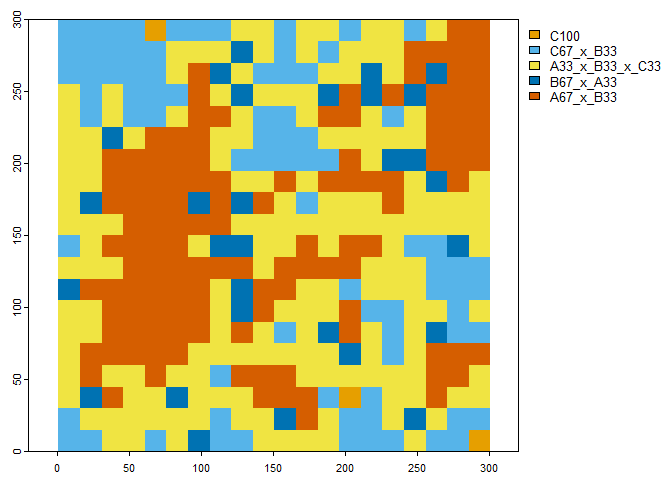
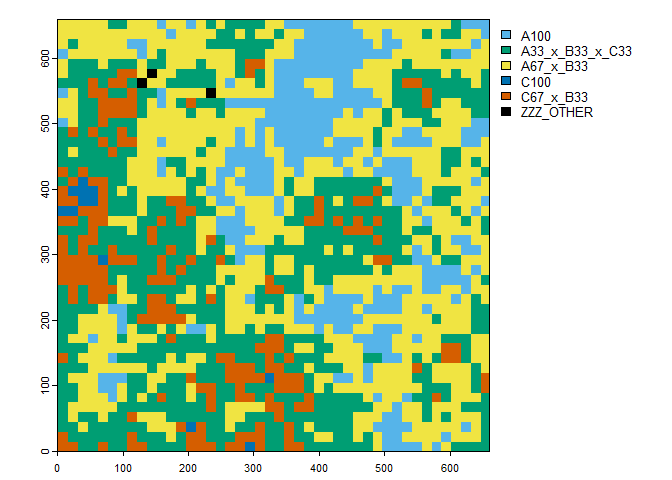
A new parameter for the MDGP scaling algorithm was added. The parameter determine at cell-level at which information retention the cell is classified as "OTHER". The information retention threshold parameters is set as percent. Information retention for all "OTHER" classified cells are set to 0.

diff --git a/README.md b/README.md
@@ -34,32 +34,32 @@ devtools::install_github("gannd/landscapeScaling")
 ``` r
 library(landscapeScaling)
 library(terra)
-#> terra 1.6.17
+#> terra 1.8.50
 ```
 
 ## Example
 
 For demonstration purpose we will load a package provided landscape with
 three classes and first subset the original raster to the lower left
-chunk of 90,000 grid cells (300 by 300 cells).
+chunk of 660 by 660 grid cells.
 
 ``` r
 # three class color scheme
 clr <- c('#332288','#44AA99','#DDCC77')
 
 # scaled color scheme
-clr_scale <- c('#E69F00','#56B4E9','#009E73','#F0E442','#0072B2','#D55E00')
+clr_scale <- c('#56B4E9','#009E73','#F0E442','#0072B2','#D55E00','#000000')
 
 # load categorical raster data set and plot
 r <- terra::rast(system.file("extdata/nlm_mid_geom_r3_sa0.tif", package = "landscapeScaling"))
 terra::plot(r, col=clr,mar=c(1.5,1.5,0.75,5))
 
-# generate subset extent to the lower left 300 by 300 cells (demo purpose) and add to plot
-sub_ext <- terra::ext(0,300,0,300)
+# generate subset extent to the lower left 660 by 660 cells (demo purpose) and add to plot
+sub_ext <- terra::ext(0,660,0,660)
 terra::plot(sub_ext, border='white',lwd=2,add=TRUE)
 ```
 
-<img src="man/figures/README-unnamed-chunk-2-1.png" width="100%" />
+<img src="./man/figures/README-unnamed-chunk-2-1.png" width="100%" />
 
 The original raster with three classes and the subset extent in the
 lower left corner (outline in white).
@@ -70,7 +70,7 @@ r_sub <- terra::crop(r,sub_ext)
 terra::plot(r_sub,col=clr,mar=c(1.5,1.5,0.75,5))
 ```
 
-<img src="man/figures/README-unnamed-chunk-3-1.png" width="100%" />
+<img src="./man/figures/README-unnamed-chunk-3-1.png" width="100%" />
 
 The subset of the categorical raster.
 
@@ -81,66 +81,108 @@ The subset of the categorical raster.
     cells will be generated.
 
 ``` r
+# generate the scaled grid
 LL_pnts <- scale_grid(r_sub,scale_factor=15)
-head(LL_pnts)
-#>    x y
-#> 1  0 0
-#> 2 15 0
-#> 3 30 0
-#> 4 45 0
-#> 5 60 0
-#> 6 75 0
+
+# print the first 10 rows of the generated coordinates
+head(LL_pnts,10)
+#>      x y
+#> 1    0 0
+#> 2   15 0
+#> 3   30 0
+#> 4   45 0
+#> 5   60 0
+#> 6   75 0
+#> 7   90 0
+#> 8  105 0
+#> 9  120 0
+#> 10 135 0
+
+# plot the subset raster and overlay hte scaled grid cell outline
 terra::plot(r_sub,col=clr,mar=c(1.5,1.5,0.75,5))
 terra::plot(vect(LL_pnts,geom=c("x","y")),pch=3,col='#EEEEEE',add=TRUE)
 ```
 
-<img src="man/figures/README-unnamed-chunk-4-1.png" width="100%" />
+<img src="./man/figures/README-unnamed-chunk-4-1.png" width="100%" />
 
 The subset of the categorical raster and the scaled grid cell origin
 (lower left corners)
 
 2)  Generate relative abundance for the subset for a scale factor of 15.
     First the lower left corner of the 15 by 15 grid cells will be
-    generated. The relative abundance for each of the 400 scaled grid
-    cells and the relative abundances are returned as a data frame.
+    generated. The relative abundance for each of the 44 x 44 scaled
+    grid cells and the relative abundances are returned as a data frame.
 
 ``` r
+# generate relative abundance
 rel_abund <- relative_abundance_scaled_grid(r_sub,class_field='cover',scale_factor=15)
-head(rel_abund)
-#>    x y          A        B        C
-#> 1  0 0  4.8888889 38.22222 56.88889
-#> 2 15 0 10.2222222 38.66667 51.11111
-#> 3 30 0 20.0000000 42.66667 37.33333
-#> 4 45 0 24.8888889 40.44444 34.66667
-#> 5 60 0  0.8888889 28.00000 71.11111
-#> 6 75 0 17.7777778 37.33333 44.88889
+
+# print the first 10 rows of the resulting data frame
+head(rel_abund,10)
+#>      x y          A        B        C
+#> 1    0 0  4.8888889 38.22222 56.88889
+#> 2   15 0 10.2222222 38.66667 51.11111
+#> 3   30 0 20.0000000 42.66667 37.33333
+#> 4   45 0 24.8888889 40.44444 34.66667
+#> 5   60 0  0.8888889 28.00000 71.11111
+#> 6   75 0 17.7777778 37.33333 44.88889
+#> 7   90 0 25.7777778 58.22222 16.00000
+#> 8  105 0  9.3333333 42.66667 48.00000
+#> 9  120 0  0.8888889 35.11111 64.00000
+#> 10 135 0 22.2222222 49.33333 28.44444
 ```
 
 3)  Classify the relative abundance of each scaled grid cell to a list
-    of multi-dimensional grid points that are generated from the class
-    label precision parameter $parts$ and the landscape richness (number
-    of classes). The mdgp_scale” function requires the argument $parts$
-    for the class label precision, the representativeness threshold
-    $prp-threshold$, and the monotypic class threshold
-    $monotypic-threshold$. First multi-dimensional grid points are
-    gnerated, then each grid cell is classified to the grid point that
-    maximizes information retention.
+    of multi-dimensional grid points. First the multi-dimensional grid
+    points are generated, then each grid cell is classified to the grid
+    point that maximizes information retention. Grid points are
+    generated from the class label precision parameter $parts$ and the
+    landscape richness (number of classes). The mdgp_scale function
+    requires the argument $parts$ for the class label precision, the
+    representativeness threshold ($prp-threshold$), the monotypic class
+    threshold ($monotypic-threshold$), and the cell-level information
+    retention threshold ($ir-threshold$). The information retention
+    threshold reclassifies cells with information retention less than
+    the threshold to a class “OTHER”. This class is actually called
+    “ZZZ_OTHER” to ensure that the “OTHER” class is added at the end of
+    the scaled class list.
+
+In this example we will a 33.3% class label precision, a 10%
+representativeness threshold, a 90% monotypic class threshold, and a
+cell-level information retention threshold of 75%.
 
 ``` r
-# classify relative abundance samples to multidimensional grid points with a 33.3% class label precision and a 10 percent representativeness threshold and a monotypic class threshold of 90%
-mdgp_result <- mdgp_scale(rel_abund,parts=3,rpr_threshold=10,monotypic_threshold=90)
-#> [1] "number of cells: 400"
+# classify relative abundance samples to multidimensional grid points
+mdgp_result <- mdgp_scale(rel_abund,parts=3,rpr_threshold=10,monotypic_threshold=90,ir_threshold=75)
+#> [1] "number of cells: 1936"
 #> [1] "number of grid points: 10"
+#> [1] "number of grid points remaining: 6"
 #> [1] "number of grid points remaining: 5"
-head(mdgp_result)
-#>   cls      A      B      C    x_y prc_inf_agr class_name
-#> 1  10  0.000  8.444 91.556  285_0      91.556       C100
-#> 2  10  0.000  9.333 90.667 195_30      90.667       C100
-#> 3  10  0.444 12.444 87.111 60_285      87.111       C100
-#> 4   9  4.889 38.222 56.889    0_0      90.222  C67_x_B33
-#> 5   9 10.222 38.667 51.111   15_0      84.444  C67_x_B33
-#> 6   9 10.667 42.667 46.667  225_0      80.000  C67_x_B33
+
+# list the first 10 records of the mdgp scaling result
+head(mdgp_result,10)
+#>    cls     A      B      C     x_y prc_inf_agr class_name
+#> 1   10 0.000  8.444 91.556   285_0      91.556       C100
+#> 2   10 2.222 10.667 87.111  15_390      87.111       C100
+#> 3   10 0.000 12.889 87.111  30_390      87.111       C100
+#> 4   10 0.000  9.333 90.667  195_30      90.667       C100
+#> 5   10 0.000  5.778 94.222  45_390      94.222       C100
+#> 6   10 0.000  5.333 94.667  15_360      94.667       C100
+#> 7   10 0.000 12.889 87.111 315_105      87.111       C100
+#> 8   10 0.444  3.111 96.444  30_405      96.444       C100
+#> 9   10 0.000  4.000 96.000   0_360      96.000       C100
+#> 10  10 0.444  8.444 91.111  45_375      91.111       C100
+
+# tabulate the final class frequencies
+table(mdgp_result$class_name)
+#> 
+#>            A100 A33_x_B33_x_C33       A67_x_B33            C100       C67_x_B33 
+#>             330             652             735              12             204 
+#>       ZZZ_OTHER 
+#>               3
 ```
+
+Notice the “ZZZ_OTHER” class with the highest class value.
 
 4)  Convert classified points to raster and location-specific
     information retention and summarize information retention at the
@@ -151,35 +193,45 @@ head(mdgp_result)
 # convert classified points and location-specific information retention to raster
 mdgp_raster <- scaling_result_to_raster(mdgp_result,class_name_field='class_name',scale_factor=15)
 
+# show the class levels of the scaled categorical raster data 
+levels(mdgp_raster)
+#> NULL
+
 # plot the scaled map
 terra::plot(mdgp_raster[[1]],col=clr_scale,mar=c(1.5,1.5,1,8))
 ```
 
-<img src="man/figures/README-unnamed-chunk-7-1.png" width="100%" />
+<img src="./man/figures/README-unnamed-chunk-7-1.png" width="100%" />
 
-The scaled categorical raster with scaled classification scheme.
+The scaled categorical raster with the scaled classification scheme.
 
 ``` r
 # plot information retention of the scaled map
 terra::plot(mdgp_raster[[2]],col=gray.colors(20,start=0.1,end=1),mar=c(1.5,1,1,8))
 ```
 
-<img src="man/figures/README-unnamed-chunk-8-1.png" width="100%" />
+<img src="./man/figures/README-unnamed-chunk-8-1.png" width="100%" />
 
-Information retention raster at the scaled grid cell level.
+Information retention raster at the scaled grid cell level. Note that
+the information retention for the “ZZZ_OTHER” class is set to 0.
+
+The class-specific and landscape-level information retention mean and
+standard deviaitons can be retrieved from the third object returned by
+the function scaling_result_to_raster().
 
 ``` r
 # print the class-specific and landscape scale summary statistics 
 print(mdgp_raster[[3]])
 #> [[1]]
-#>        class_name freq class_id   prop inf_retention_mn inf_retention_sd
-#> 1 A33_x_B33_x_C33  165        1 0.4125           84.129            3.814
-#> 2       A67_x_B33  122        2 0.3050           87.417            6.519
-#> 3       B67_x_A33   29        3 0.0725           82.038            2.214
-#> 4            C100    3        4 0.0075           89.778            2.352
-#> 5       C67_x_B33   81        5 0.2025           88.093            5.132
+#>        class_name freq class_id        prop inf_retention_mn inf_retention_sd
+#> 1            A100  330        1 0.170454545           92.174            5.085
+#> 2 A33_x_B33_x_C33  652        2 0.336776860           83.679            4.130
+#> 3       A67_x_B33  735        3 0.379648760           89.385            5.293
+#> 4            C100   12        4 0.006198347           91.667            3.917
+#> 5       C67_x_B33  204        5 0.105371901           87.954            5.226
+#> 6       ZZZ_OTHER    3        6 0.001549587            0.000            0.000
 #> 
 #> [[2]]
 #>                                   mean    sd
-#> information_retention_landscape 85.826 5.356
+#> information_retention_landscape 87.663 6.759
 ```
